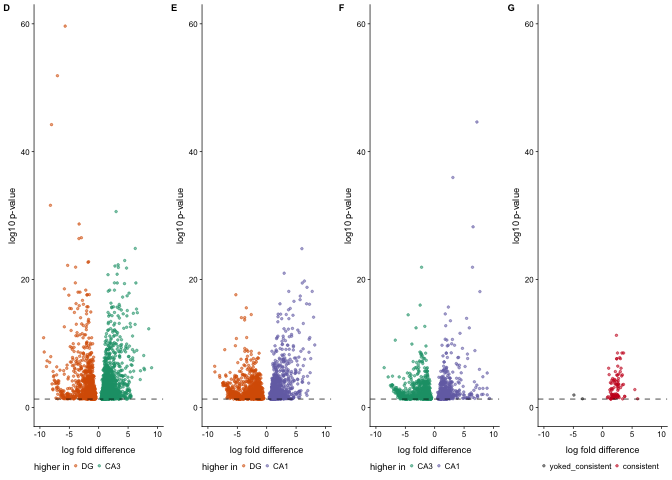
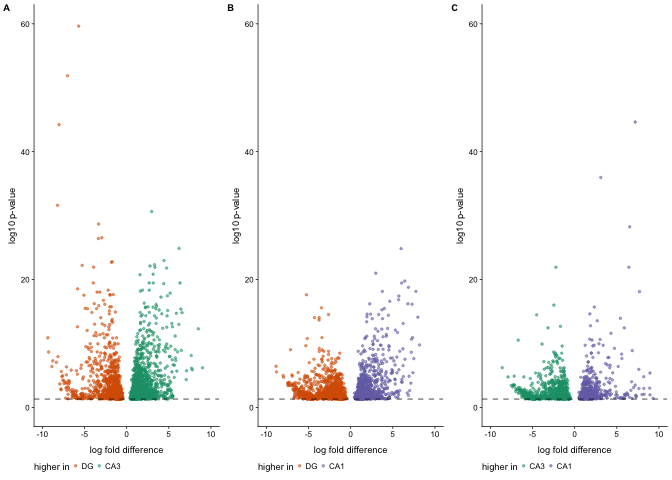
no progress

diff --git a/scripts/02b_rnaseqALL.md b/scripts/02b_rnaseqALL.md
@@ -657,8 +657,8 @@ Volcanos plots and and gene lists
     g <- volcanoplot(CsYcs, volcano1, c("yoked_consistent", "consistent")) +
       theme(legend.title = element_blank())
 
-    myvolcanoplots <- plot_grid(d,e,f,g,
-               labels = c("D", "E", "F", "G"),
+    myvolcanoplots <- plot_grid(d,e,f,
+               labels = c("A", "B", "C"),
                nrow = 1,
                label_size = 7
                )
@@ -666,24 +666,8 @@ Volcanos plots and and gene lists
 
 ![](../figures/02b_RNAseqAll/volcanos-1.png)
 
-    pdf(file="../figures/02b_RNAseqALL/myvolcanoplots.pdf", width=6.6, height=2)
+    pdf(file="../figures/02b_RNAseqALL/myvolcanoplots.pdf", width=5, height=2)
     plot(myvolcanoplots)
-    dev.off()
-
-    ## quartz_off_screen 
-    ##                 2
-
-    volcano2 <- plot_grid(d,e,
-               labels = c("D", "E"),
-               nrow = 1,
-               label_size = 7
-               )
-    volcano2
-
-![](../figures/02b_RNAseqAll/volcanos-2.png)
-
-    pdf(file="../figures/02b_RNAseqALL/volcanoplots.pdf", width=3, height=2)
-    plot(volcano2)
     dev.off()
 
     ## quartz_off_screen 
